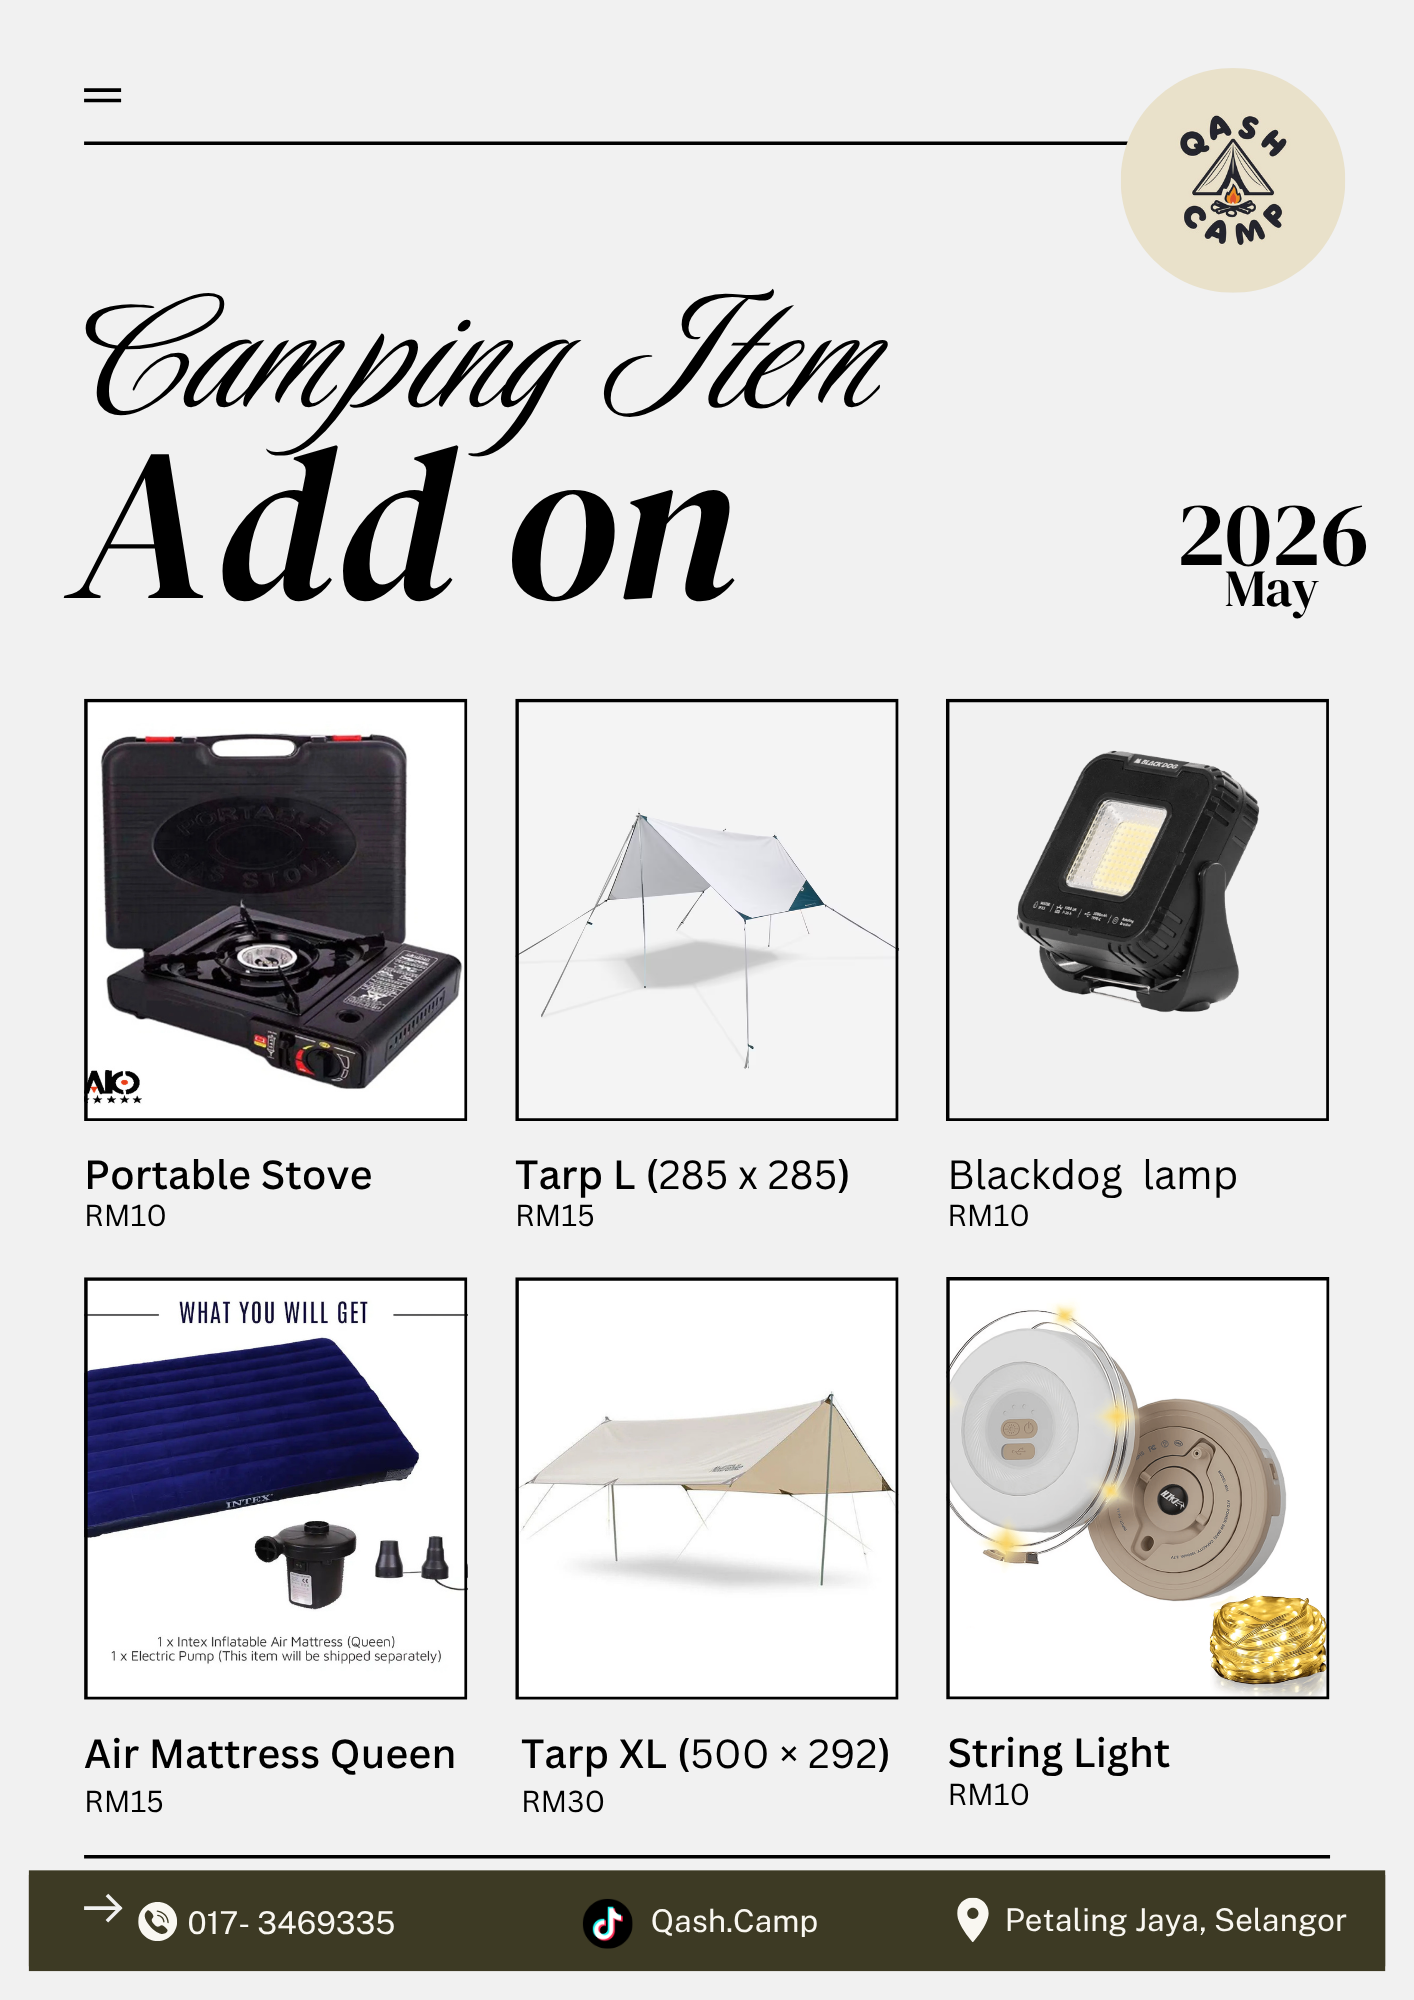
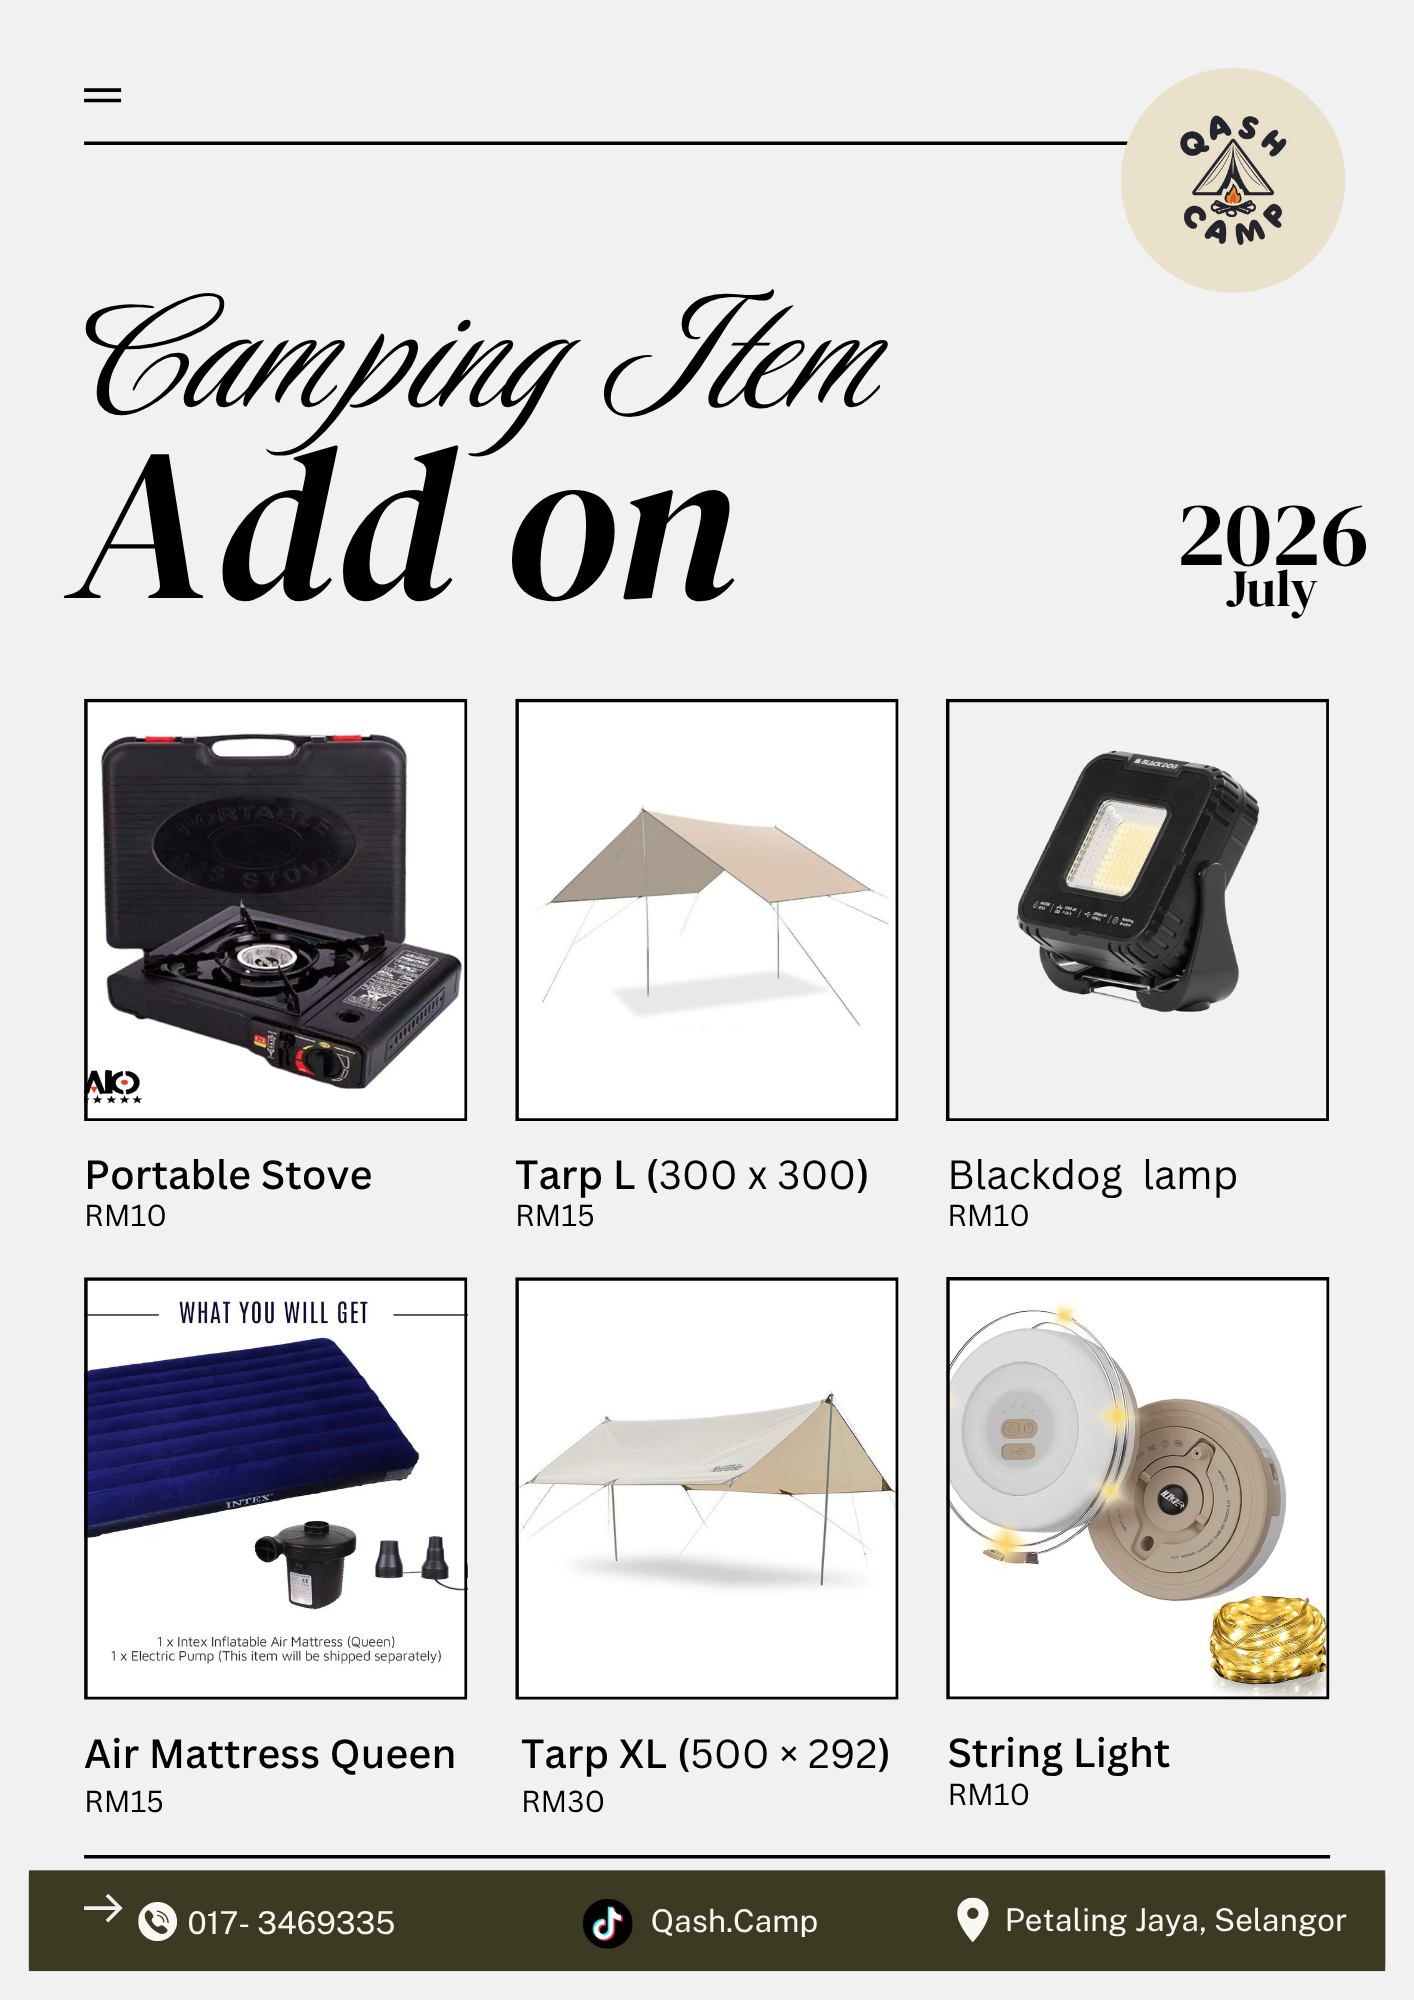
fix: add the new price detail

Changed region(s): [[0.3734, 0.403, 0.6223, 0.496], [0.4668, 0.558, 0.6223, 0.62], [0.8713, 0.279, 0.9335, 0.31]]

diff --git a/src/components/GalleryPage.jsx b/src/components/GalleryPage.jsx
@@ -7,7 +7,8 @@ import img2 from "../assets/sewa_2.png";
 import img3 from "../assets/sewa_3.png"; // Price list board asset
 import img4 from "../assets/add_on1.png";
 import img5 from "../assets/add_on2.png";
-import img6 from "../assets/term.png";
+import img6 from "../assets/add_on3.png";
+import img7 from "../assets/term.png";
 
 export default function GalleryPage() {
   const navigate = useNavigate(); 
@@ -41,6 +42,12 @@ export default function GalleryPage() {
     },
     { 
       img: img6, 
+      tag: "Sleep Well", 
+      title: "Add-On Sleeping Comfort",
+      description: "Sometimes the night gets chilly. Upgrade your sleeping setup with extra blankets, sleeping pads, and cozy bedding for a warm and restful sleep under the stars."
+    },
+    { 
+      img: img7, 
       tag: "Guidelines", 
       title: "Terms & Safety Regulations",
       description: "Sila baca panduan dan peraturan keselamatan kami demi memastikan pengalaman perkhemahan yang selamat, harmoni, dan menyeronokkan."
